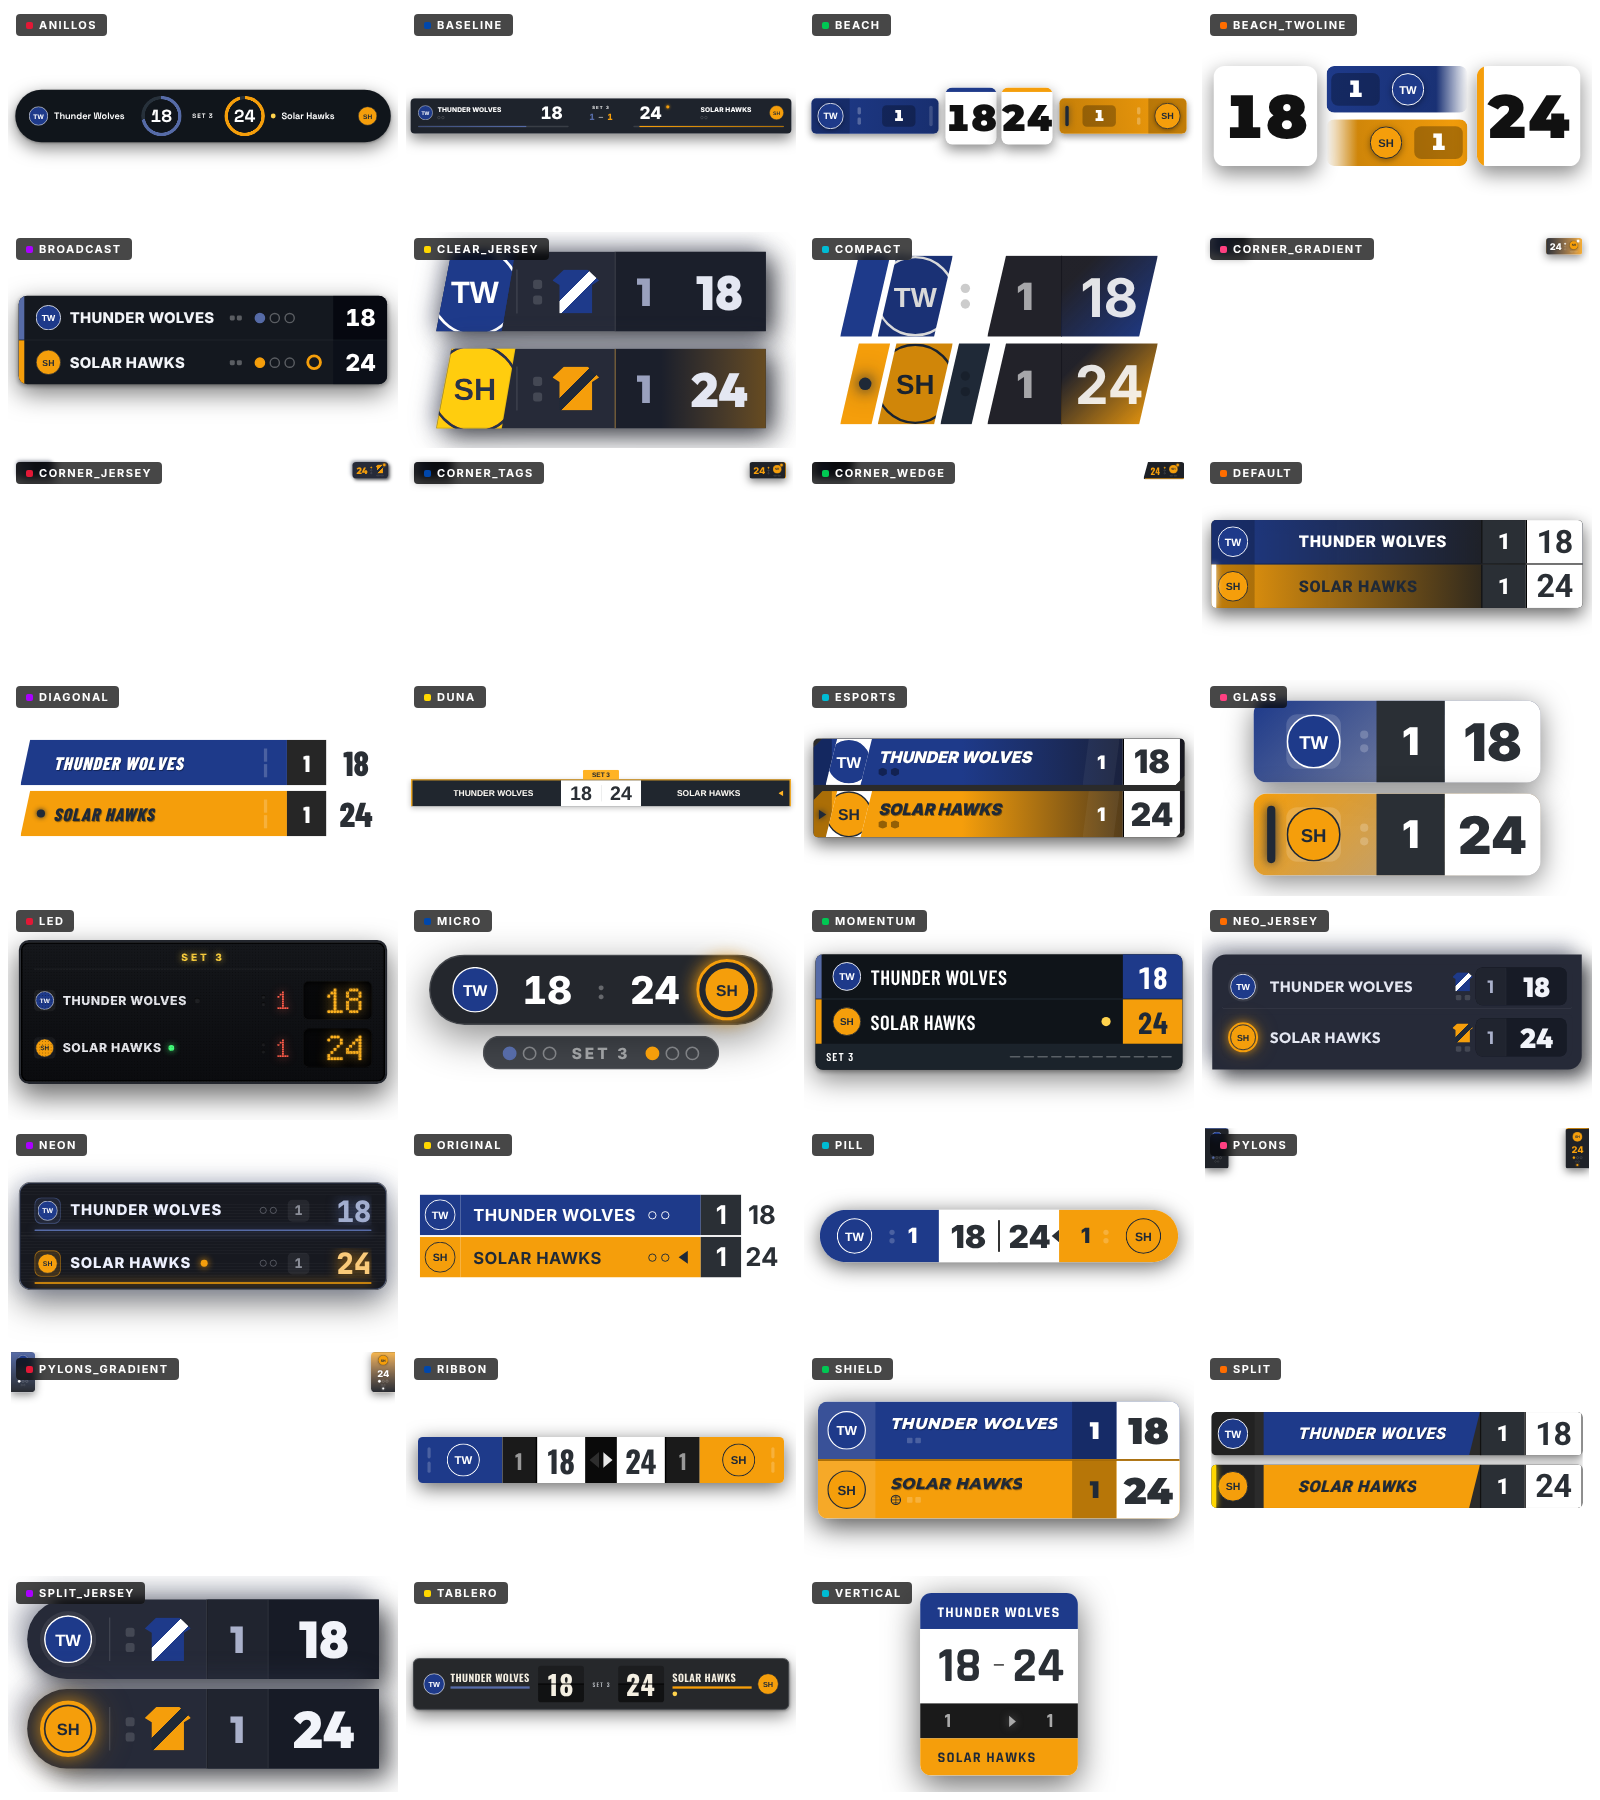
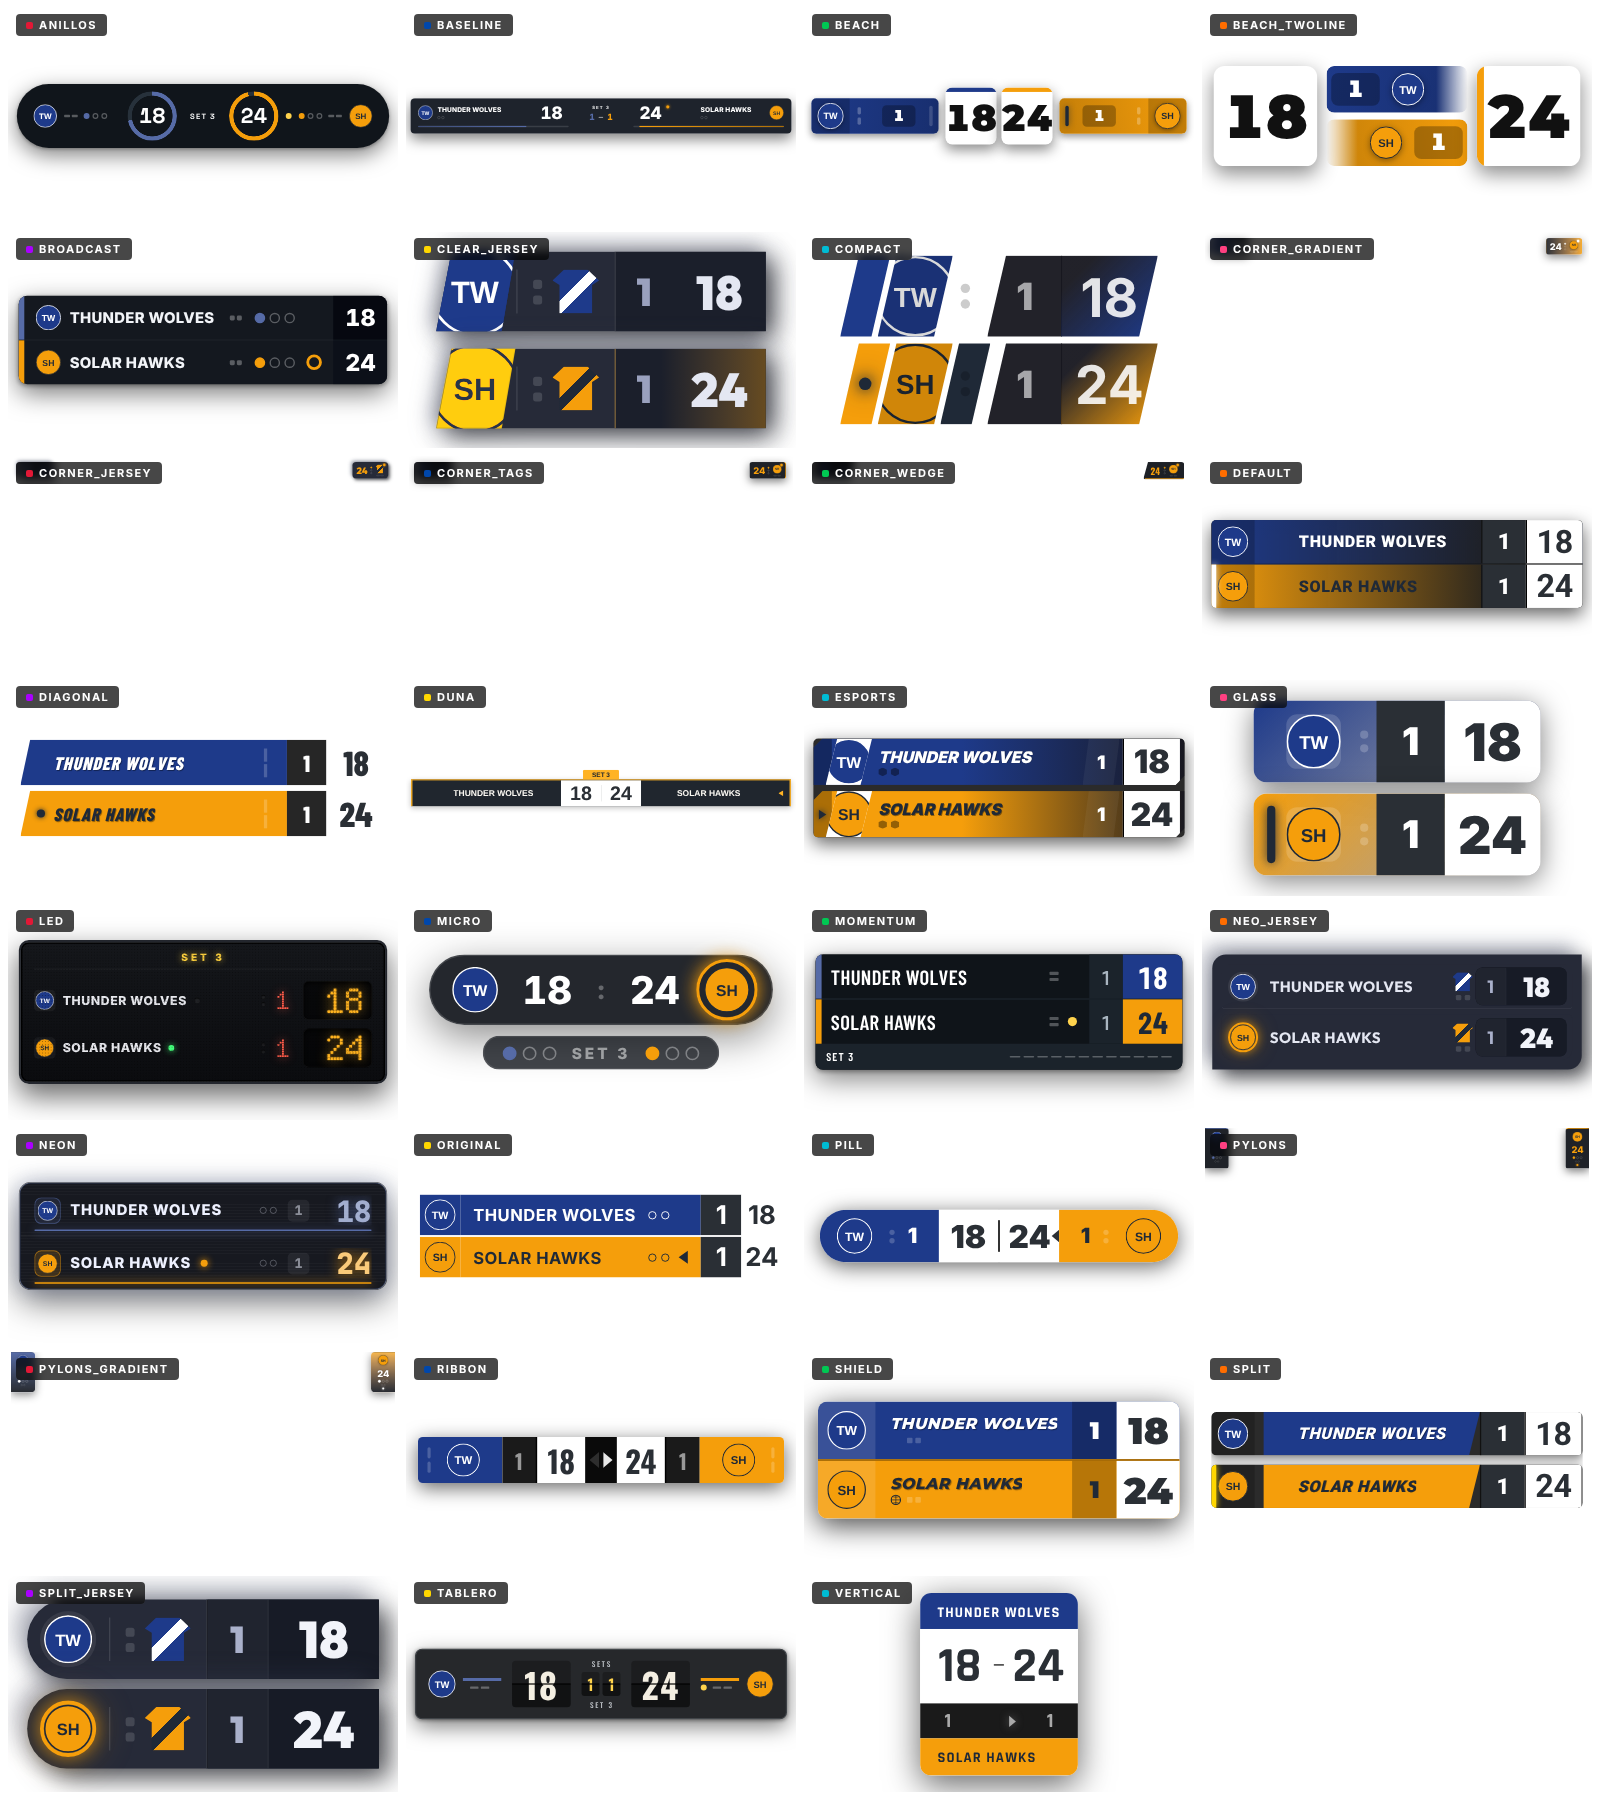
Rework simple mode for the new scoreboards and the Side panel summary
Simple mode should drop set history where a style has one, not the
sets-won summary. None of the three new scoreboards carries a history,
so they shorten differently instead:

- tablero, anillos (one line): hide the team names and keep the logos;
  with logos switched off the names stay as the only identity
- momentum (two rows): keep the names and hide the logos

Sets won and timeouts stay visible on all three. The Side panel summary
now omits only the sets table in simple mode and keeps the match
standing and the stats.

Claude-Session: https://claude.ai/code/session_016iEZugMHSCBtfQb8cVDZgS

Changed region(s): [[0.25, 0.9022, 0.5, 0.9644], [0.0, 0.0311, 0.25, 0.0933], [0.5, 0.5289, 0.625, 0.5911]]

diff --git a/overlay_static/js/set_summary.js b/overlay_static/js/set_summary.js
@@ -2093,8 +2093,8 @@
   // visible on the remaining two thirds of the frame. Top to bottom:
   // status line, one card per team, the sets table, the rally grid,
   // two per-team stats and the clocks. Simple mode ("only current set")
-  // drops everything that describes the match rather than this set:
-  // the standing, the sets table and the stats.
+  // drops the history of the other sets (the sets table); the match
+  // standing and this set's stats stay.
   function onColourInk(colour) {
     const rgb = parseHex(colour);
     if (!rgb) return "#ffffff";
@@ -2239,19 +2239,17 @@
         }),
       ],
     });
-    if (!vm.simpleMode) {
-      status.appendChild(
-        el("span", {
-          class: "ss-sp-standing",
-          children: [
-            el("span", { text: t("match") }),
-            el("strong", { class: "home", text: String(vm.team1Sets) }),
-            document.createTextNode("–"),
-            el("strong", { class: "away", text: String(vm.team2Sets) }),
-          ],
-        }),
-      );
-    }
+    status.appendChild(
+      el("span", {
+        class: "ss-sp-standing",
+        children: [
+          el("span", { text: t("match") }),
+          el("strong", { class: "home", text: String(vm.team1Sets) }),
+          document.createTextNode("–"),
+          el("strong", { class: "away", text: String(vm.team2Sets) }),
+        ],
+      }),
+    );
     stage.appendChild(status);
     stage.appendChild(
       el("div", {
@@ -2264,25 +2262,23 @@
     );
     if (!vm.simpleMode) stage.appendChild(buildSidePanelSets(vm));
     stage.appendChild(buildSidePanelRallies(vm));
-    if (!vm.simpleMode) {
-      stage.appendChild(
-        el("div", {
-          class: "ss-sp-stats",
-          children: [
-            buildSidePanelStat(
-              t("longestStreak"),
-              vm.longestSet[1],
-              vm.longestSet[2],
-            ),
-            buildSidePanelStat(
-              t("timeoutsUsed"),
-              vm.timeoutsSet[1],
-              vm.timeoutsSet[2],
-            ),
-          ],
-        }),
-      );
-    }
+    stage.appendChild(
+      el("div", {
+        class: "ss-sp-stats",
+        children: [
+          buildSidePanelStat(
+            t("longestStreak"),
+            vm.longestSet[1],
+            vm.longestSet[2],
+          ),
+          buildSidePanelStat(
+            t("timeoutsUsed"),
+            vm.timeoutsSet[1],
+            vm.timeoutsSet[2],
+          ),
+        ],
+      }),
+    );
     stage.appendChild(
       el("div", {
         class: "ss-sp-clocks",

diff --git a/frontend/src/test/setSummaryOverlay.test.ts b/frontend/src/test/setSummaryOverlay.test.ts
@@ -470,7 +470,7 @@ describe('set_summary.js overlay renderer', () => {
       expect(blocks.at(-1)!.classList.contains('ss-last')).toBe(true);
     });
 
-    it('drops the match context in simple mode', () => {
+    it('drops only the sets history in simple mode', () => {
       const full = renderState(finishedSet);
       expect(full.classList.contains('ss-simple')).toBe(false);
       expect(full.querySelector('.ss-sp-standing')).not.toBeNull();
@@ -481,10 +481,10 @@ describe('set_summary.js overlay renderer', () => {
         match_info: { ...finishedSet.match_info, show_only_current_set: true },
       });
       expect(simple.classList.contains('ss-simple')).toBe(true);
-      expect(simple.querySelector('.ss-sp-standing')).toBeNull();
       expect(simple.querySelector('.ss-sp-sets')).toBeNull();
-      expect(simple.querySelector('.ss-sp-stats')).toBeNull();
-      // The set itself is still fully described.
+      // The match standing and the set itself are still fully described.
+      expect(simple.querySelector('.ss-sp-standing')).not.toBeNull();
+      expect(simple.querySelector('.ss-sp-stats')).not.toBeNull();
       expect(simple.querySelectorAll('.ss-sp-team')).toHaveLength(2);
       expect(simple.querySelector('.ss-sp-track')).not.toBeNull();
       expect(simple.querySelector('.ss-sp-clocks')).not.toBeNull();

diff --git a/overlay_static/css/tablero.css b/overlay_static/css/tablero.css
@@ -270,12 +270,18 @@ body.overlay-theme-light #scoreboard-container {
     0 2px 6px rgba(0, 0, 0, 0.2);
 }
 
-/* Simple mode ("only current set"): the sets flaps and timeout ticks go;
-   the current-set label stays between the two score flaps. */
-.scoreboard.compact-mode .tablero-sets,
-.scoreboard.compact-mode .tablero-sets-caption,
-.scoreboard.compact-mode .timeout-container {
-  display: none;
+/* Simple mode ("only current set"): a one-line board shortens by
+   dropping the team names and letting the logos identify each side; the
+   colour bar, serve lamp, timeouts and sets flaps all stay. ``!important``
+   beats the inline ``display: grid`` app.js's equalizer puts on
+   ``.team-info``. With logos switched off the names are the only
+   identity left, so they stay. */
+.scoreboard.compact-mode:not(.no-logos) .team-info {
+  display: none !important;
+}
+
+.scoreboard.compact-mode:not(.no-logos) .tablero-id {
+  min-width: 64px;
 }
 
 /* Legacy shared widgets remain invisible unless explicitly activated. */

diff --git a/overlay_static/css/anillos.css b/overlay_static/css/anillos.css
@@ -256,10 +256,13 @@ body.overlay-theme-light #scoreboard-container {
     0 2px 6px rgba(0, 0, 0, 0.2);
 }
 
-/* Simple mode ("only current set"): the match context under each name —
-   sets won and timeouts — goes; the rings and names stay. */
-.scoreboard.compact-mode .anillos-meta {
-  display: none;
+/* Simple mode ("only current set"): a one-line pill shortens by dropping
+   the team names and letting the logos identify each side; sets won and
+   timeouts stay. ``!important`` beats the inline ``display: grid`` app.js's
+   equalizer puts on ``.team-info``. With logos switched off the names are
+   the only identity left, so they stay. */
+.scoreboard.compact-mode:not(.no-logos) .team-info {
+  display: none !important;
 }
 
 /* Legacy shared widgets remain invisible unless explicitly activated. */

diff --git a/overlay_static/css/set_summary.css b/overlay_static/css/set_summary.css
@@ -2496,7 +2496,7 @@ body.overlay-theme-light .set-summary-panel {
    colours fill only the leading team's card (with a luminance-picked
    ink, ``--ss-*-on``) and the rally blocks; everything else sits on
    the theme-relative neutral surfaces. Simple mode (``.ss-simple``)
-   omits the standing, the sets table and the stats in the renderer.
+   omits the sets table (the other sets' history) in the renderer.
    ───────────────────────────────────────────────────────────── */
 
 .ss-stage[data-style="side_panel"] {

diff --git a/overlay_static/css/momentum.css b/overlay_static/css/momentum.css
@@ -268,10 +268,10 @@ body.overlay-theme-light #scoreboard-container {
     0 2px 6px rgba(0, 0, 0, 0.2);
 }
 
-/* Simple mode ("only current set"): drop the match context — sets won
-   and timeouts — and keep the live set's label and rally strip. */
-.scoreboard.compact-mode .sets,
-.scoreboard.compact-mode .timeout-container {
+/* Simple mode ("only current set"): this style has no set history to
+   drop and two stacked rows cannot shed their names, so the saving comes
+   from the logos. Sets won, timeouts and the rally strip all stay. */
+.scoreboard.compact-mode .logo-container {
   display: none;
 }
 

diff --git a/CHANGELOG.md b/CHANGELOG.md
@@ -22,17 +22,19 @@ archive by hand.
   *Tablero* is a symmetric split-flap gym board with one flap per score and a
   smaller pair for the sets won. *Anillos* is a pill whose two rings fill as
   each team approaches the set's point target (25/15 indoor, 21 beach). All
-  three are dark by default with a light theme, honour simple mode (sets won
-  and timeouts are dropped, the current set stays), side swaps, optional
-  logos and the position/size controls, and appear in the style gallery with
+  three are dark by default with a light theme and honour side swaps, optional
+  logos and the position/size controls. In simple mode the one-line Tablero
+  and Anillos drop the team names and keep the logos, while two-row Momentum
+  keeps the names and drops the logos; sets won and timeouts stay on all
+  three. They appear in the style gallery with
   localized names and renderer thumbnails.
 - **Side panel set summary.** A seventh recap design: a full-height column
   docked to the right edge that leaves the picture visible on the rest of
   the frame. It shows both teams with the set score, the sets table, one
   block per recorded rally, longest streak, timeouts and the set/match
   clocks, in the dark or light palette of the active scoreboard. With simple
-  mode on it keeps only what describes the set itself — the match standing,
-  sets table and stats are left out.
+  mode on it leaves out the sets table (the other sets' history) and keeps
+  the match standing and stats.
 
 ### Changed
 
